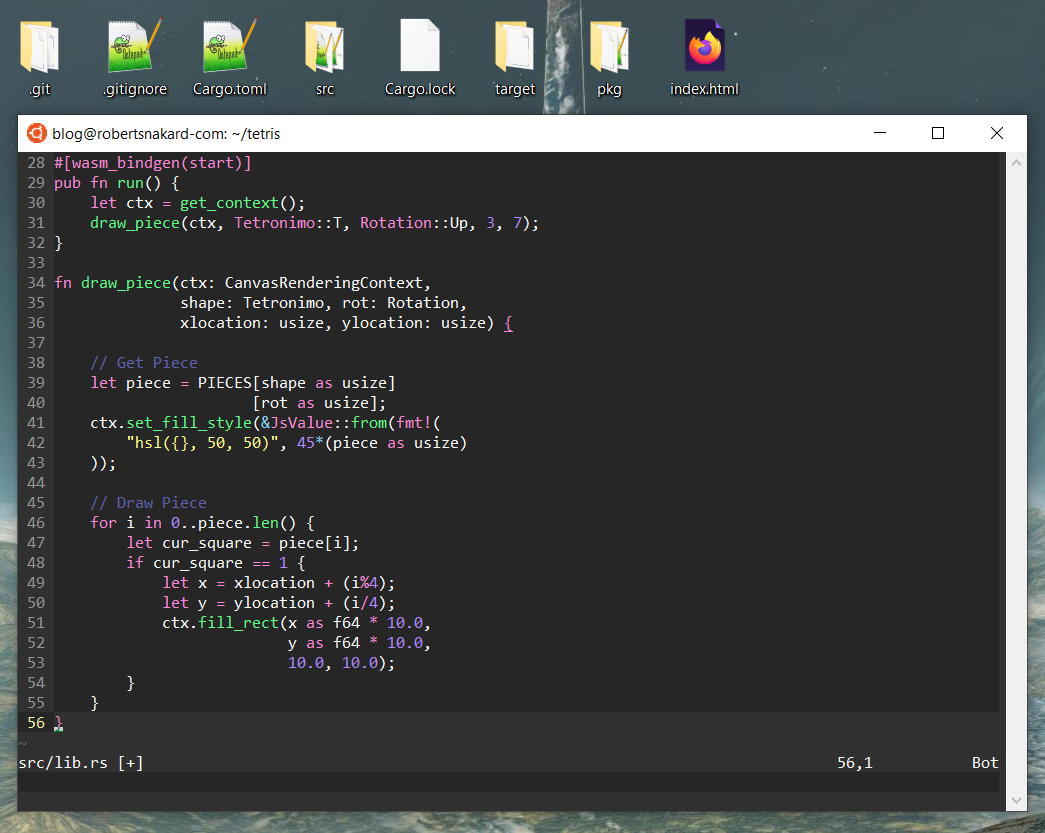
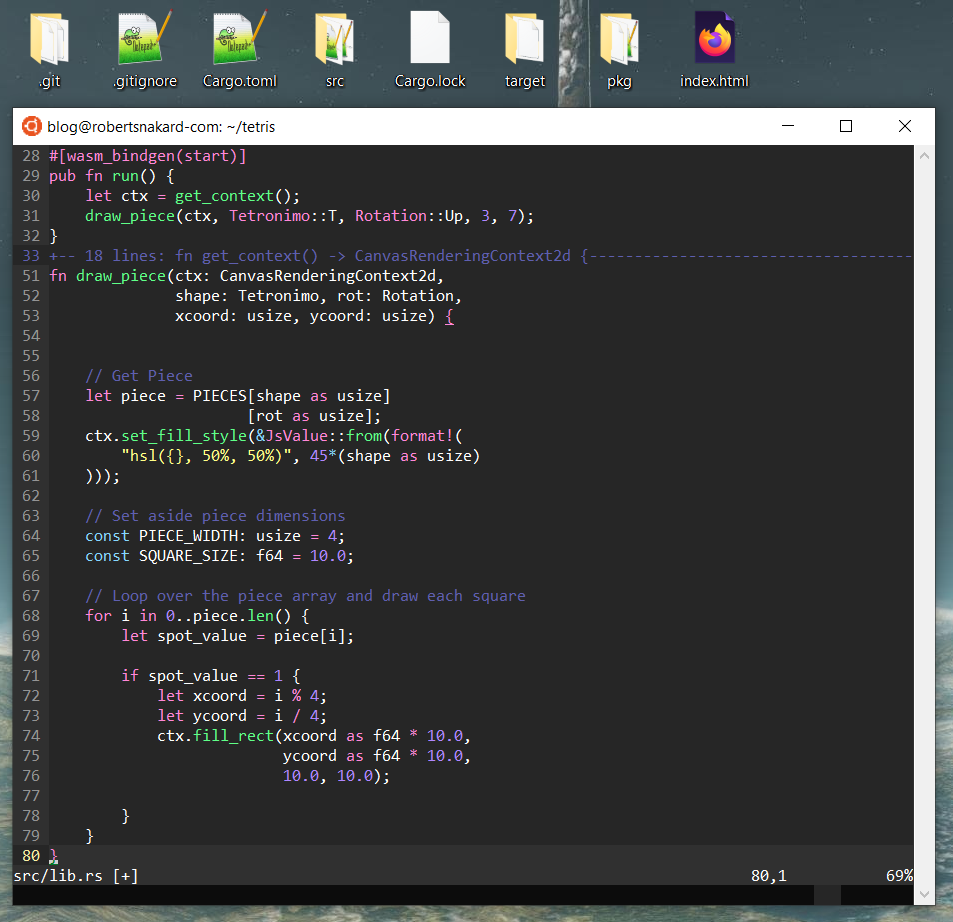
update third post with source

Changed region(s): [[0.0, 0.0, 1.0, 1.0]]

diff --git a/src/source/tetris_3/index.html b/src/source/tetris_3/index.html
@@ -1,0 +1,21 @@
+<!doctype html>
+<html>
+  <head>
+    <meta charset="utf-8">
+    <meta name="viewport" content="width=device-width, initial-scale=1">
+    <title>Tetris</title>
+  </head>
+  <body>
+    <h1>Tetris!</h1>
+    <canvas height=200 width=100 id="my_canvas"></canvas>
+    <p>robertsnakard.com</p>
+    
+    <script type="module">
+        import { default as init } from "./pkg/tetris.js";
+        async function run() {
+            await init("./pkg/tetris_bg.wasm");
+        } run();
+    </script>
+
+  </body>
+</html>

diff --git a/src/source/tetris_3/draw_piece_pathfinder.rs b/src/source/tetris_3/draw_piece_pathfinder.rs
@@ -1,0 +1,92 @@
+use web_sys::*;
+use wasm_bindgen::prelude::*;
+use wasm_bindgen::JsValue;
+use wasm_bindgen::JsCast;
+
+mod pieces;
+use pieces::PIECES;
+
+#[derive(Debug, Copy, Clone)]
+enum Tetronimo {
+    Z,
+    L,
+    O,
+    S,
+    I,
+    J,
+    T,
+}
+
+#[derive(Debug, Copy, Clone)]
+enum Rotation {
+    Up,
+    Left,
+    Down,
+    Right,
+}
+
+#[wasm_bindgen(start)]
+pub fn run() {
+    let ctx = get_context();
+    draw_piece(ctx, Tetronimo::T, Rotation::Up, 3, 7);
+}
+
+fn get_context() -> CanvasRenderingContext2d {
+    // Get the Canvas DOM element
+    let window = window().unwrap();
+    let document = window.document().unwrap();
+    let anonymous_element = document.get_element_by_id("my_canvas").unwrap();
+    let canvas = anonymous_element.dyn_into::<HtmlCanvasElement>().unwrap();
+
+    // Get the drawing context
+    let ctx = canvas.get_context("2d")
+                    .unwrap()
+                    .unwrap()
+                    .dyn_into::<CanvasRenderingContext2d>()
+                    .unwrap();
+
+    return ctx;
+}
+
+fn draw_piece(ctx: CanvasRenderingContext2d,
+              shape: Tetronimo, rot: Rotation,
+              xcoord: usize, ycoord: usize) {
+
+
+    // Get Piece
+    let piece = PIECES[shape as usize]
+                      [rot as usize];
+    ctx.set_fill_style(&JsValue::from(format!(
+        "hsl({}, 50%, 50%)", 45*(shape as usize)
+    )));
+
+    // Set aside piece dimensions
+    const PIECE_WIDTH: usize = 4;
+    const SQUARE_SIZE: f64 = 10.0;
+
+    // Loop over the piece array and draw each square
+    for i in 0..piece.len() {
+        let spot_value = piece[i];
+
+        if spot_value == 1 {
+            let xcoord = i % 4;
+            let ycoord = i / 4;
+            ctx.fill_rect(xcoord as f64 * 10.0,
+                          ycoord as f64 * 10.0,
+                          10.0, 10.0);
+            
+        }
+    }
+}
+
+fn move_piece() {
+
+}
+
+fn create_piece() {
+
+}
+
+fn detect_collisions() {
+
+}

diff --git a/src/source/tetris_3/draw_piece_3e.rs b/src/source/tetris_3/draw_piece_3e.rs
@@ -1,0 +1,65 @@
+use web_sys::*;
+use wasm_bindgen::prelude::*;
+use wasm_bindgen::JsValue;
+use wasm_bindgen::JsCast;
+
+#[wasm_bindgen(start)]
+pub fn run() {
+    draw_piece();
+}
+
+fn draw_piece() {
+    // Get the Canvas DOM element
+    let window = window().unwrap();
+    let document = window.document().unwrap();
+    let anonymous_element = document.get_element_by_id("my_canvas").unwrap();
+    let canvas = anonymous_element.dyn_into::<HtmlCanvasElement>().unwrap();
+    
+    // Get the drawing context
+    let ctx = canvas.get_context("2d")
+                    .unwrap()
+                    .unwrap()
+                    .dyn_into::<CanvasRenderingContext2d>()
+                    .unwrap();
+
+    // Draw a square to the screen
+    ctx.set_fill_style(&JsValue::from("red"));
+    ctx.fill_rect(10.0, 10.0, 10.0, 10.0);
+
+    // TODO: Draw Piece
+    let piece = [
+        0, 1, 0, 0,
+        1, 1, 1, 0,
+        0, 0, 0, 0,
+        0, 0, 0, 0,
+    ];
+
+    // Set aside piece dimensions
+    const PIECE_WIDTH: usize = 4;
+    const SQUARE_SIZE: f64 = 10.0;
+
+    // Loop over the piece array and draw each square
+    for i in 0..piece.len() {
+        let spot_value = piece[i];
+        
+        if spot_value == 1 {
+            let xcoord = i % 4;
+            let ycoord = i / 4;
+            ctx.fill_rect(xcoord as f64 * 10.0,
+                          ycoord as f64 * 10.0,
+                          10.0, 10.0);
+        }
+    }
+}
+
+fn move_piece() {
+
+}
+
+fn create_piece() {
+
+}
+
+fn detect_collisions() {
+
+}

diff --git a/src/source/tetris_3/draw_piece_2e.rs b/src/source/tetris_3/draw_piece_2e.rs
@@ -1,0 +1,48 @@
+use web_sys::*;
+use wasm_bindgen::prelude::*;
+use wasm_bindgen::JsValue;
+use wasm_bindgen::JsCast;
+
+#[wasm_bindgen(start)]
+pub fn run() {
+    draw_piece();
+}
+
+fn draw_piece() {
+    // Get the Canvas DOM element
+    let window = window().unwrap();
+    let document = window.document().unwrap();
+    let anonymous_element = document.get_element_by_id("my_canvas").unwrap();
+    let canvas = anonymous_element.dyn_into::<HtmlCanvasElement>().unwrap();
+    
+    // Get the drawing context
+    let ctx = canvas.get_context("2d")
+                    .unwrap()
+                    .unwrap()
+                    .dyn_into::<CanvasRenderingContext2d>()
+                    .unwrap();
+
+    // Draw a square to the screen
+    ctx.set_fill_style(&JsValue::from("red"));
+    ctx.fill_rect(10.0, 10.0, 10.0, 10.0);
+
+    // TODO: Draw Piece
+    let piece = [
+        0, 1, 0, 0,
+        1, 1, 1, 0,
+        0, 0, 0, 0,
+        0, 0, 0, 0,
+    ];
+}
+
+fn move_piece() {
+
+}
+
+fn create_piece() {
+
+}
+
+fn detect_collisions() {
+
+}

diff --git a/src/source/tetris_3/draw_piece_1e.rs b/src/source/tetris_3/draw_piece_1e.rs
@@ -1,0 +1,40 @@
+use web_sys::*;
+use wasm_bindgen::prelude::*;
+use wasm_bindgen::JsValue;
+use wasm_bindgen::JsCast;
+
+#[wasm_bindgen(start)]
+pub fn run() {
+    draw_piece();
+}
+
+fn draw_piece() {
+    // Get the Canvas DOM element
+    let window = window().unwrap();
+    let document = window.document().unwrap();
+    let anonymous_element = document.get_element_by_id("my_canvas").unwrap();
+    let canvas = anonymous_element.dyn_into::<HtmlCanvasElement>().unwrap();
+    
+    // Get the drawing context
+    let ctx = canvas.get_context("2d")
+                    .unwrap()
+                    .unwrap()
+                    .dyn_into::<CanvasRenderingContext2d>()
+                    .unwrap();
+
+    // Draw a square to the screen
+    ctx.set_fill_style(&JsValue::from("red"));
+    ctx.fill_rect(10.0, 10.0, 10.0, 10.0);
+}
+
+fn move_piece() {
+
+}
+
+fn create_piece() {
+
+}
+
+fn detect_collisions() {
+
+}

diff --git a/src/source/tetris_3/blueprint.rs b/src/source/tetris_3/blueprint.rs
@@ -1,0 +1,37 @@
+use web_sys::*;
+use wasm_bindgen::prelude::*;
+use wasm_bindgen::JsValue;
+use wasm_bindgen::JsCast;
+
+#[wasm_bindgen(start)]
+pub fn hello_world() {
+    let window = window().unwrap();
+    let document = window.document().unwrap();
+    let anonymous_element = document.get_element_by_id("my_canvas").unwrap();
+    let canvas = anonymous_element.dyn_into::<HtmlCanvasElement>().unwrap();
+    
+    let ctx = canvas.get_context("2d")
+                    .unwrap()
+                    .unwrap()
+                    .dyn_into::<CanvasRenderingContext2d>()
+                    .unwrap();
+
+    ctx.set_fill_style(&JsValue::from("red"));
+    ctx.fill_rect(10.0, 10.0, 10.0, 10.0);
+}
+
+fn move_piece() {
+
+}
+
+fn draw_piece() {
+
+}
+
+fn create_piece() {
+
+}
+
+fn detect_collisions() {
+
+}

diff --git a/src/source/tetris_3/hello_world.rs b/src/source/tetris_3/hello_world.rs
@@ -1,0 +1,21 @@
+use web_sys::*;
+use wasm_bindgen::prelude::*;
+use wasm_bindgen::JsValue;
+use wasm_bindgen::JsCast;
+
+#[wasm_bindgen(start)]
+pub fn hello_world() {
+    let window = window().unwrap();
+    let document = window.document().unwrap();
+    let anonymous_element = document.get_element_by_id("my_canvas").unwrap();
+    let canvas = anonymous_element.dyn_into::<HtmlCanvasElement>().unwrap();
+    
+    let ctx = canvas.get_context("2d")
+                    .unwrap()
+                    .unwrap()
+                    .dyn_into::<CanvasRenderingContext2d>()
+                    .unwrap();
+
+    ctx.set_fill_style(&JsValue::from("red"));
+    ctx.fill_rect(10.0, 10.0, 10.0, 10.0);
+}
